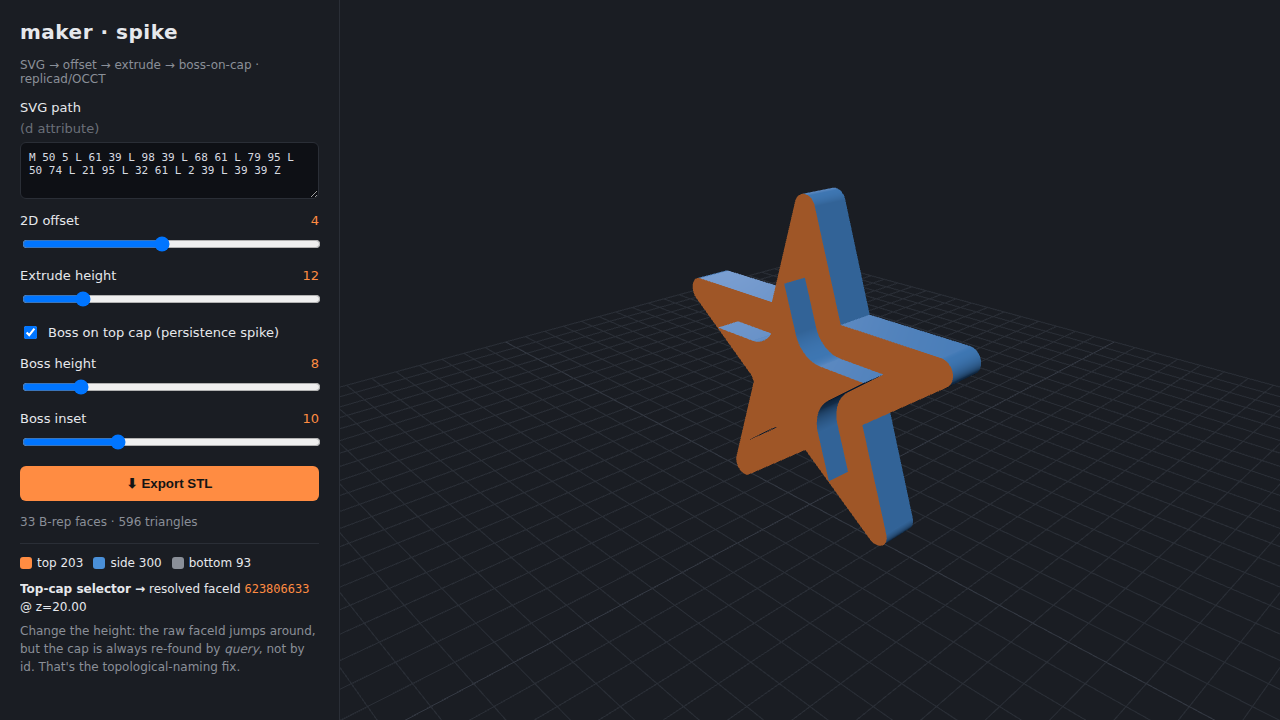
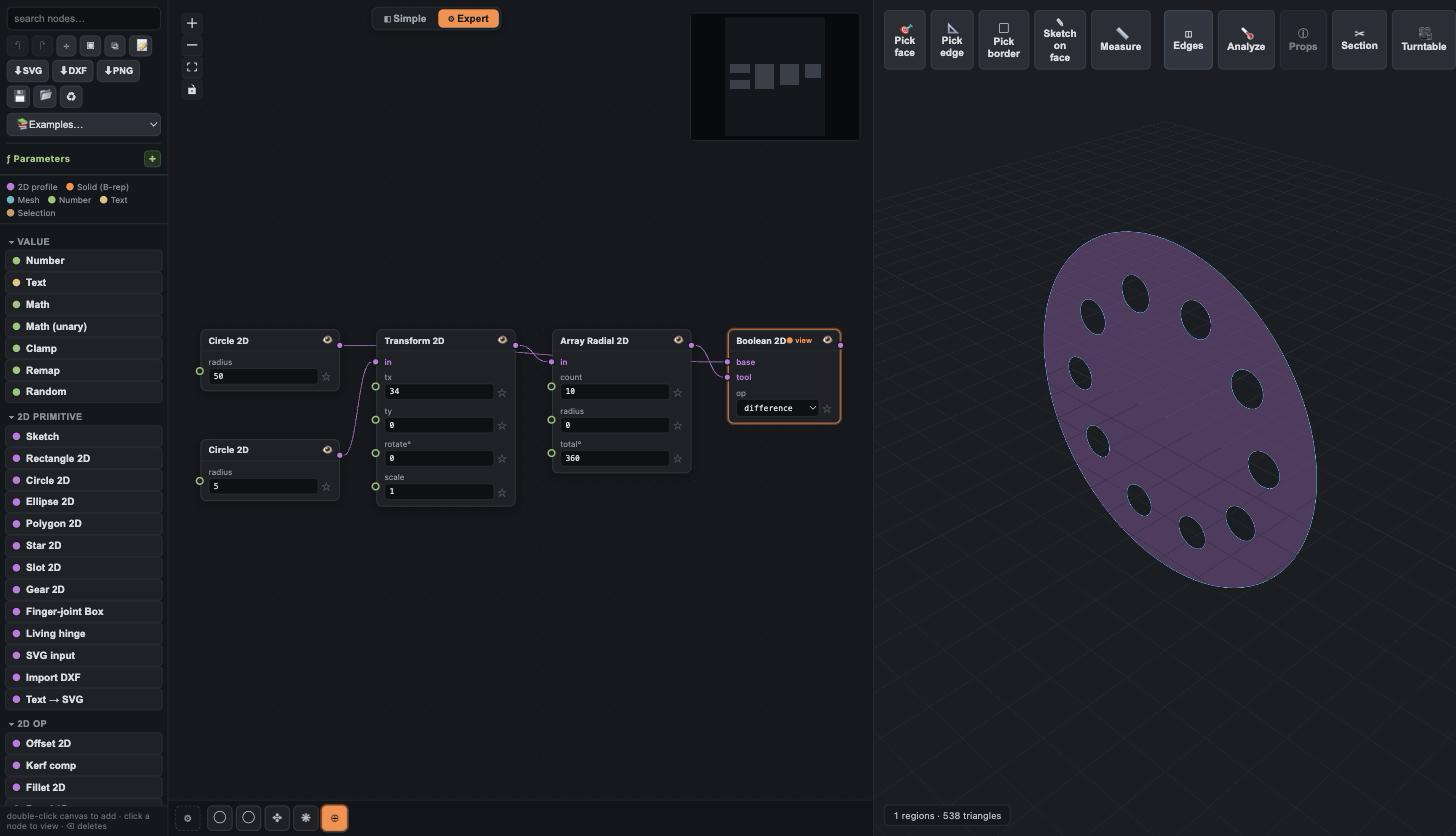
docs: README réécrit pour l'état actuel du projet (+ screenshot à jour)
Fini le cadrage 'spike/PoC' — décrit l'outil réel: ~80 nœuds, deux kernels, sketcher à contraintes, modes Simple/Expert, catalogue de features (résine/laser/modélisation/analyse), exports, quick start, lien vers docs/ARCHITECTURE.md. Screenshot remplacé par la vue Expert actuelle (graphe + palette colorée + preview 2D rempli).

diff --git a/README.md b/README.md
@@ -1,113 +1,86 @@
-# maker · spike + PoC SVG
+# nodal-maker
 
-A de-risking spike for a **nodal parametric 3D generator** (à destination de
-l'impression 3D). It proves the risky parts of the stack end-to-end before
-committing to the full build.
+**A node-based parametric CAD/CAM tool that runs entirely in the browser** — built for
+**resin 3D printing** and **laser / Cricut cutting**. Wire nodes into a graph
+(Fusion360-meets-Blender), tweak parameters, and get live B-rep solids and 2D profiles you
+can export to STL / STEP / 3MF / SVG / DXF.
 
-![PoC screenshot](./poc-screenshot.png)
+🔗 **Live:** https://tibus.github.io/nodal-maker/
+📐 **How it works:** [`docs/ARCHITECTURE.md`](./docs/ARCHITECTURE.md)
 
-> **📐 Full architecture & how it works:** [`docs/ARCHITECTURE.md`](./docs/ARCHITECTURE.md)
-> — the node graph engine, the two geometry kernels, the constraint solver, the
-> viewport, the Simple/Expert configurator, exports, thumbnails, build/test/deploy.
+![screenshot](./poc-screenshot.png)
 
-## What this proves
+---
 
-1. **SVG pipeline** — an SVG `<path d="…">` is parsed and turned into a 2D
-   profile, offset in 2D, then extruded to a solid. (`svgInput → offset2d →
-   extrude`)
-2. **Extrude on the result of an extrude, taking the cap** — a boss is built on
-   the top face of the first extrude. (`bossOnCap`)
-3. **Face flagging / persistence (the hard part)** — faces are tagged
-   `top` / `side` / `bottom`, and the top cap is re-selected across
-   regenerations by a **criteria-based query, not a stored id**. This is the
-   answer to the *topological naming problem*: raw face ids are unstable, so we
-   store the query and re-resolve it every rebuild.
-4. **STL export** — watertight output for 3D printing.
+## What it does
 
-The geometry runs on **replicad** (a TypeScript wrapper over **OpenCascade /
-OCCT**, a real B-rep CAD kernel compiled to WASM). The viewport is **Three.js**.
+- **Node graph** — a typed DAG of ~80 nodes. Wires carry typed values (2D profile · solid ·
+  mesh · number · text · selection); the socket colours tell you what plugs into what.
+- **Two geometry kernels, in a Web Worker** — [replicad](https://replicad.xyz) /
+  OpenCascade for **exact B-rep** modelling (extrude, revolve, loft, fillet, shell, boolean,
+  threads, STEP export) and [Manifold](https://github.com/elalish/manifold) for **robust
+  mesh** work (booleans, hulls, gyroid infill, collision).
+- **2D constraint sketcher** — points/lines/arcs with coincidence, parallel, tangent,
+  dimensions… solved live with Levenberg–Marquardt. Sketch on a base plane *or an arbitrary
+  picked face*.
+- **Simple / Expert modes** — Expert is the full node graph; **Simple** is an auto-generated
+  form (thumbnail gallery + only the parameters the author exposed) so a non-technical user
+  just tweaks values and watches the model update. No nodes required.
+- **Live picking** — click a face/edge in the viewport to auto-wire a selection node;
+  face selections survive regeneration (they're stored as *criteria*, not fragile ids — the
+  topological-naming problem, solved).
 
-## The stack, confirmed
+## Feature highlights
 
-| Concern | Choice | Status |
-|---|---|---|
-| B-rep kernel (offset, extrude, face selection) | replicad + `replicad-opencascadejs` | ✅ works |
-| Off-thread compute | Web Worker + comlink | ✅ works |
-| Viewport | Three.js (reuses the parent repo's viewport patterns) | ✅ works |
-| SVG path → profile | custom parser (`src/kernel/svgPath.ts`) | ✅ works |
-| STL export | `solid.blobSTL()` | ✅ works |
+| Domain | What you get |
+|---|---|
+| **Resin printing** | hollow + drain holes, infill lattice, **gyroid** infill, auto-orient, support generation, split-for-build-plate, overhang & wall-thickness analysis, watertight check, resin cost/time estimate |
+| **Laser / Cricut** | living hinge, nesting, dogbone/T-bone corners, hold-in-sheet tabs, kerf compensation, finger-joint boxes, CUT/SCORE DXF layers, SVG & DXF import/export |
+| **Modelling** | extrude (taper/twist), pocket, parametric holes, revolve, loft, sweep, boss-on-cap, variable-radius fillet, chamfer, shell, patterns (linear/radial/**path**), text engrave/emboss on a face |
+| **Analysis & viewport** | section view, measure tool, mass properties, per-body colour, turntable video export |
+| **Import/export** | STL, STEP, 3MF, SVG, DXF, PNG, WebM |
 
-## Run it
+## Quick start
 
 ```bash
-cd maker
 npm install
-
-# 1. Headless proof of the geometry (no browser needed)
-npm run smoke
-
-# 2. Interactive PoC in the browser
-npm run dev        # then open the printed URL
+npm run dev          # interactive editor — open the printed URL
 ```
 
-`npm run smoke` output (abridged):
-
-```
-PoC SVG pipeline: svgInput → offset2d → extrude → bossOnCap
-  B-rep faces         : 33
-  resolved top cap    : faceId=623811297 @ z=20.00
-Persistence spike — regenerate with different heights:
-  height= 6  topCapFaceId=759330689  z=14.00  (expected≈14)  ✓
-  height=12  topCapFaceId=921844289  z=20.00  (expected≈20)  ✓
-  height=30  topCapFaceId=1051123585 z=38.00  (expected≈38)  ✓
-  → selector stayed correct across 3 regenerations
-STL export: 742824 bytes  ✅
+```bash
+npm run build        # typecheck + production build
+npm test             # Vitest suite (58 tests: kernel eval, expr, solver, exports…)
+npm run thumbs:examples   # (re)generate missing example thumbnails (WebGL screenshots)
 ```
 
-Note how the raw `faceId` changes every regeneration while the selector keeps
-resolving the correct cap — that's the whole point.
+Headless smoke tests (no browser): `npm run smoke`, `npm run smoke:sketch`,
+`npm run smoke:mesh`, `npm run scenes`.
 
-## Architecture (as spiked)
+## Tech stack
+
+TypeScript (strict, ESM) · React 18 + [React Flow](https://reactflow.dev) · Three.js ·
+replicad/OpenCascade (WASM) · Manifold (WASM) · comlink · Vite · Vitest · Playwright.
+No backend — a fully static SPA, deployed to GitHub Pages on every push to `main`
+(the test suite gates the deploy).
+
+## Project layout
 
 ```
-UI (React)                     ← this PoC hardcodes the graph; React Flow later
-  │  Params
-  ▼
-Web Worker (comlink)
-  │  evalGraph(): tiny typed DAG  → src/kernel/nodes.ts
-  │    nodes: svgInput · offset2d · extrude · bossOnCap
-  │    typed wires: sketch2d | solid
-  ▼
-replicad / OCCT (WASM)  → meshAndTag() → { vertices, indices, normals, groups[tag] }
-  ▼
-Three.js viewport  (one material per tag)
+src/kernel/    the graph engine (nodes.ts), the worker, both kernel wrappers, exporters
+src/sketch/    the framework-free 2D constraint sketcher (model · solver · build)
+src/           App, NodeEditor (React Flow), SketchEditor, viewport (Three.js)
+examples/      55 bundled example projects        public/thumbs/  their preview PNGs
+scripts/       thumbnail & scene generation, smoke tests
+test/          the Vitest suite
 ```
 
-Key files:
+See [`docs/ARCHITECTURE.md`](./docs/ARCHITECTURE.md) for the full tour: the data flow,
+the evaluation cache, the constraint solver, the viewport, the configurator, and **how to
+add a node in 4 edits**.
 
-- `src/kernel/nodes.ts` — the typed node-graph engine + geometry nodes + face
-  tagging + the criteria-based `resolveTopCap` selector.
-- `src/kernel/svgPath.ts` — SVG path → replicad drawing (the future "text → SVG"
-  node plugs in here).
-- `src/kernel/model.ts` — wires the default graph from user params.
-- `src/kernel/worker.ts` / `client.ts` — OCCT worker + comlink bridge.
-- `scripts/smoke.ts` — headless proof.
+## Status
 
-## Known limits (deliberately out of scope for the spike)
-
-- SVG parser handles `M L H V C Q Z` and the **first** closed subpath only —
-  holes (letters like O/A) are TODO.
-- **Mesh domain not included yet.** The full tool also needs STL *import* +
-  editing (booleans, repair). That's a second kernel (**Manifold**, WASM) living
-  next to OCCT, with a one-way `B-rep → mesh` bridge (tessellate) and mesh-domain
-  face flagging via triangle-region segmentation. Not spiked here.
-- The graph is hardcoded; the real editor is **React Flow** over this same
-  `nodes.ts` engine.
-
-## Next steps
-
-1. React Flow editor on top of `nodes.ts` (node palette, typed ports, live eval).
-2. Add the **Manifold** mesh kernel + STL import/boolean/repair nodes and the
-   tessellate bridge.
-3. `text → SVG` node via **opentype.js** glyph paths (feeds `svgPath.ts`).
-4. Per-node caching so only the sub-graph downstream of a changed param recomputes.
+Well past the original de-risking spike — this is a working tool with a live deployment,
+a broad node library, the Simple/Expert configurator, a real test suite, and CI/CD. It
+remains a solo project and a moving target; expect rough edges and see the *Design
+decisions & known limits* section of the architecture doc.
